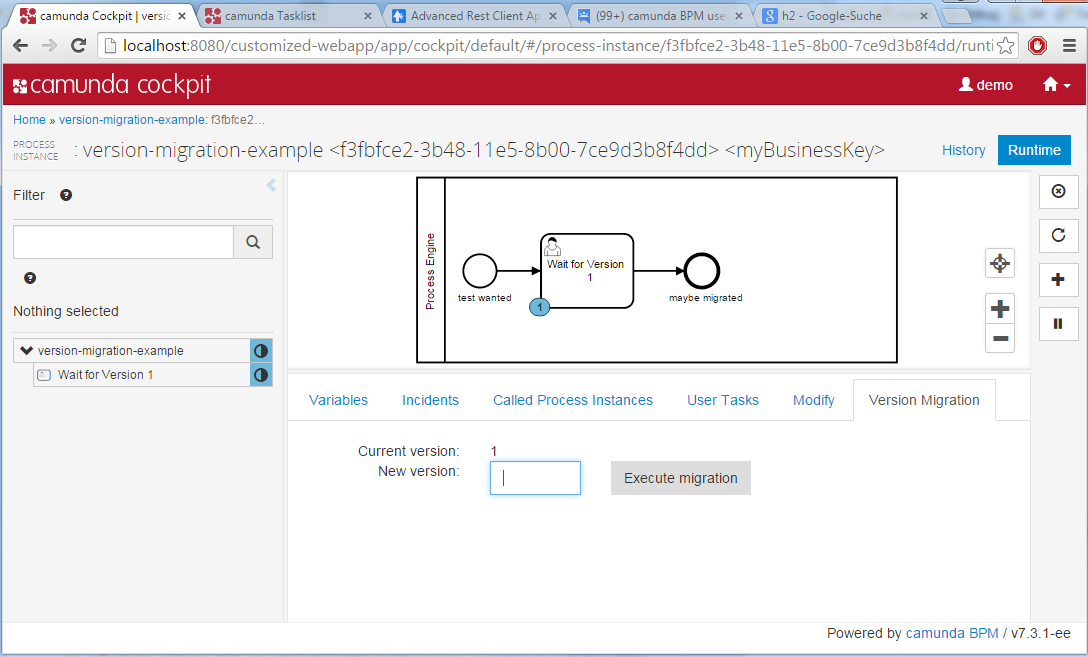
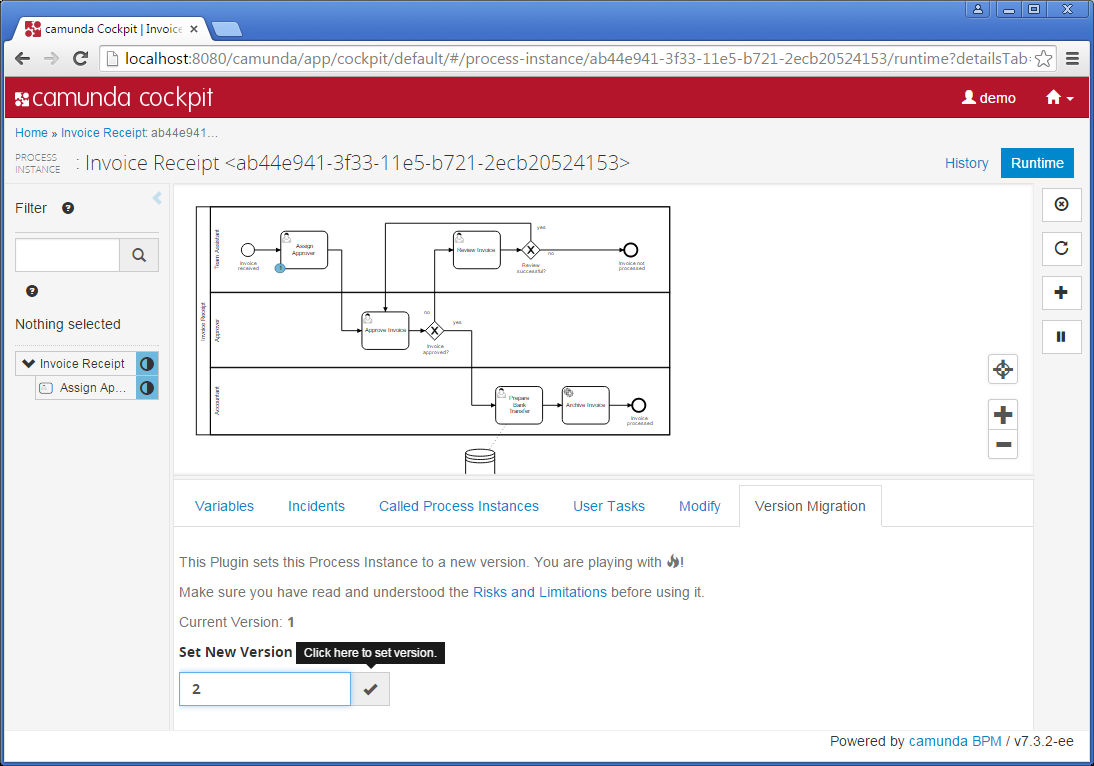
slightly changes layout

Changed region(s): [[0.0, 0.0, 1.0, 1.0], [0.625, 0.6088, 0.6875, 0.6697]]

diff --git a/cockpit-plugin-version-migration/src/main/resources/plugin-webapp/version-migration/app/dashboard.html b/cockpit-plugin-version-migration/src/main/resources/plugin-webapp/version-migration/app/dashboard.html
@@ -1,19 +1,31 @@
-<div class="container-fluid">
-	<form ng-submit="migrateVersion()">
-		<div class="row">
-			<div class="col-md-3 text-right">Current version:</div>
-			<div class="col-md-2">{{processDefinition.version}}</div>
-		</div>
-		<div class="row">
-			<div class="col-md-3 text-right">New version:</div>
-			<div class="col-md-2">
-				<input class="form-control" type="text"
-					ng-model="newVersion.version" name="text" />
-			</div>
-			<div class="col-md-4">
-				<input class="form-control, btn" type="submit" id="submit"
-					value="Execute migration" />
-			</div>
-		</div>
-	</form>
+<form ng-submit="migrateVersion()">
+
+<div class="help-block">
+	<p>
+	  This Plugin sets this Process Instance to a new version. You are playing with <span title="fire" class="glyphicon glyphicon-fire"></span>!
+	</p> 
+	   
+	<p>    
+	  Make sure you have read and understood the 
+	<a href="https://github.com/camunda/camunda-cockpit-plugins/tree/master/cockpit-plugin-version-migration#risks-and-limitations-of-version-migration">
+	Risks and Limitations</a> before using it.
+	</p>
+	
+	<p>
+	  Current Version: <strong>{{processDefinition.version}}</strong>
+	</p>
 </div>
+  
+
+<p>
+  <strong>Set New Version</strong>
+</p>
+
+<label class="input-group col-md-3">
+  <input ng-model="newVersion.version" type="text" class="form-control">
+  <span class="input-group-addon ng-scope" tooltip="Click here to set version.">
+    <span class="glyphicon glyphicon-ok" ng-click="migrateVersion()"></span>
+  </span>
+</label>	
+    
+</form>
